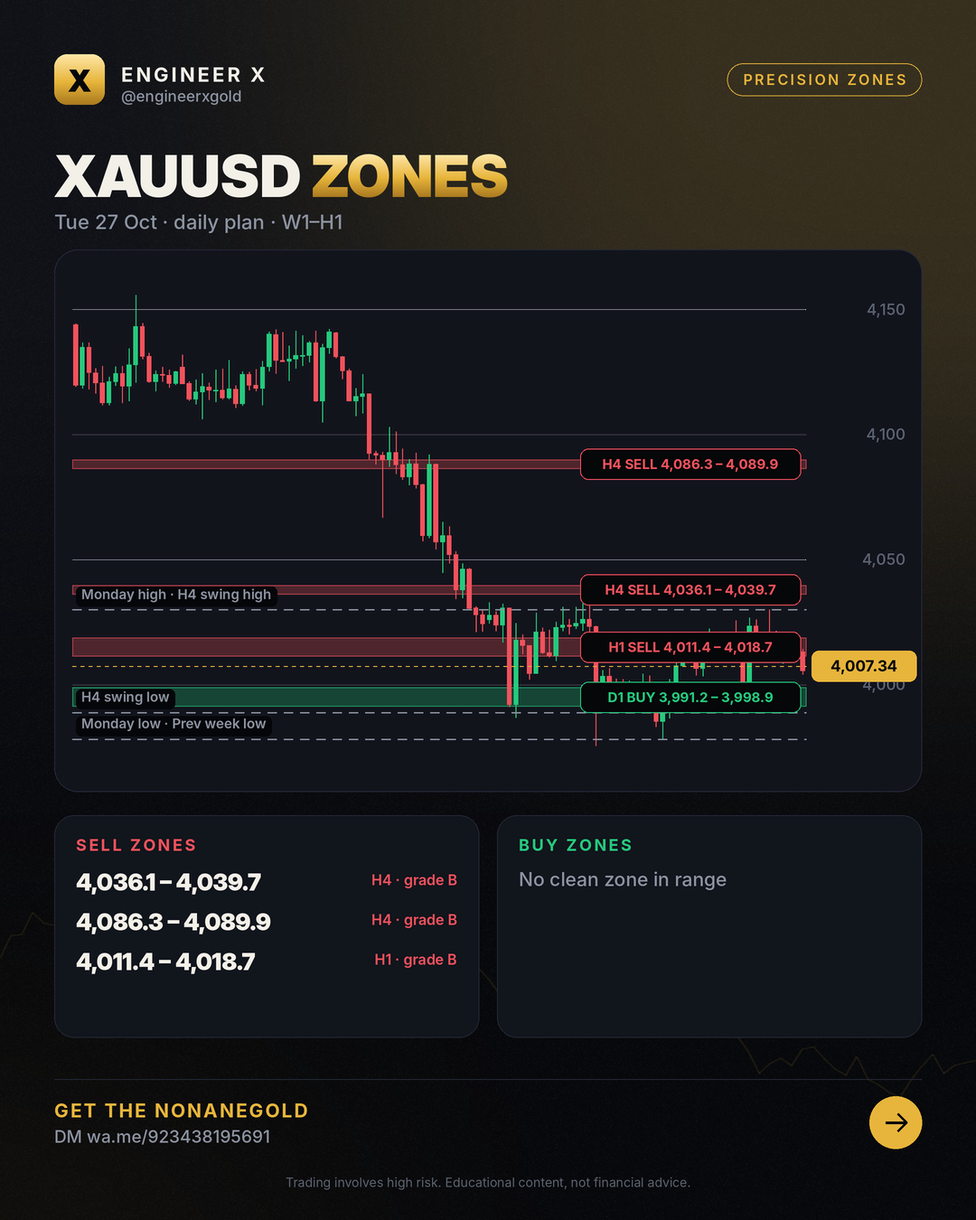
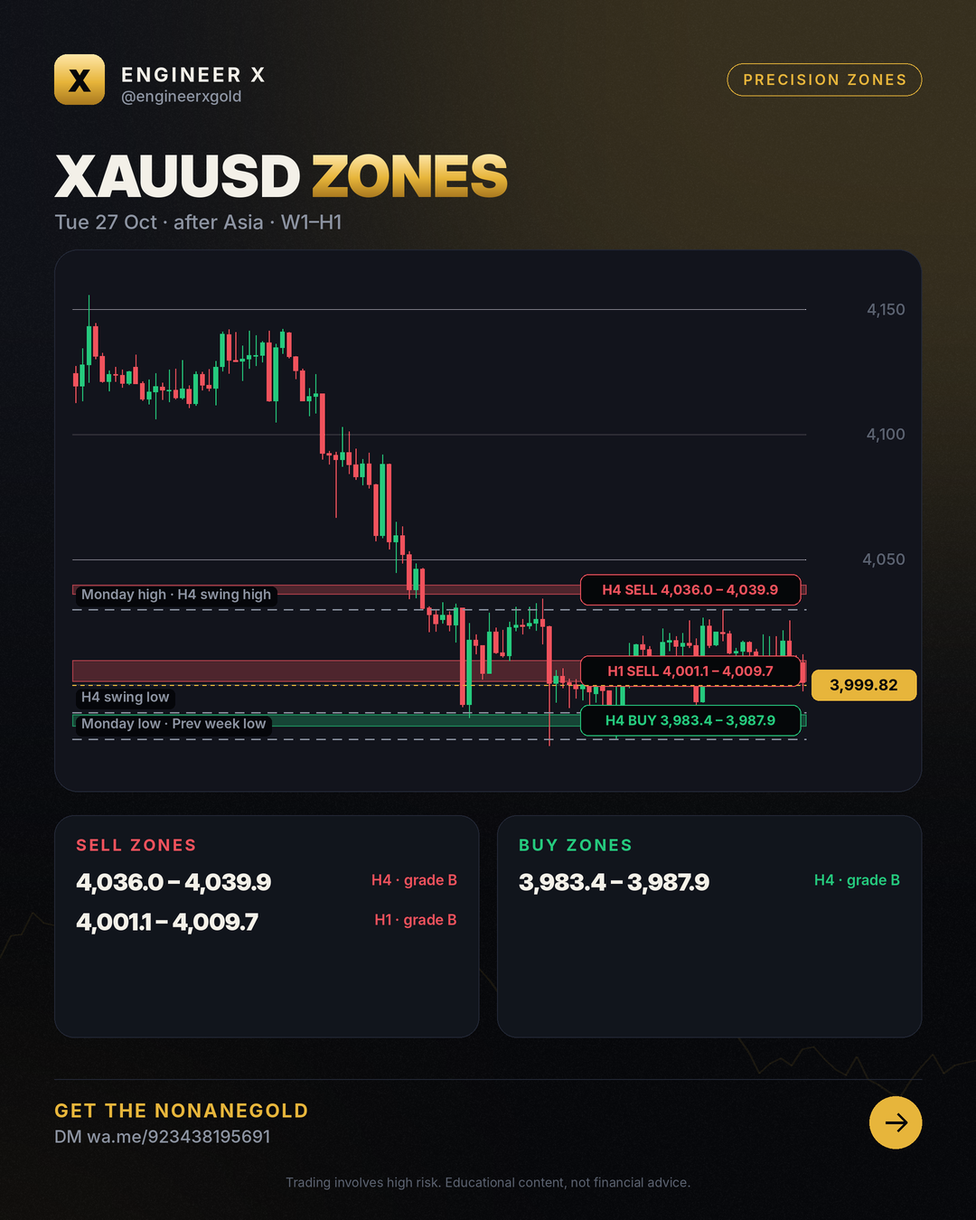
zones 2026-10-27 Tue 27 Oct · after Asia · W1–H1

diff --git a/zones/index.html b/zones/index.html
@@ -4,7 +4,7 @@
 <meta charset="utf-8">
 <meta name="viewport" content="width=device-width,initial-scale=1">
 <title>XAUUSD Zones Today – Buy &amp; Sell Zones (H4, H1) | Engineer X</title>
-<meta name="description" content="XAUUSD buy and sell zones for 2026-10-27: tested W1, D1, H4 and H1 zones with invalidation levels, updated after the Asian, London and New York sessions. Price 4,007.34.">
+<meta name="description" content="XAUUSD buy and sell zones for 2026-10-27: tested W1, D1, H4 and H1 zones with invalidation levels, updated after the Asian, London and New York sessions. Price 3,999.82.">
 <meta name="robots" content="index,follow,max-image-preview:large,max-snippet:-1,max-video-preview:-1">
 <meta name="author" content="Engr. M Ahmad Mehmood">
 <link rel="canonical" href="https://engineerxgold.github.io/zones/">
@@ -12,7 +12,7 @@
 <link rel="apple-touch-icon" href="../img/logo.png">
 <meta property="og:site_name" content="Engineer X">
 <meta property="og:title" content="XAUUSD Zones Today – Buy &amp; Sell Zones (H4, H1) | Engineer X">
-<meta property="og:description" content="XAUUSD buy and sell zones for 2026-10-27: tested W1, D1, H4 and H1 zones with invalidation levels, updated after the Asian, London and New York sessions. Price 4,007.34.">
+<meta property="og:description" content="XAUUSD buy and sell zones for 2026-10-27: tested W1, D1, H4 and H1 zones with invalidation levels, updated after the Asian, London and New York sessions. Price 3,999.82.">
 <meta property="og:type" content="website">
 <meta property="og:url" content="https://engineerxgold.github.io/zones/">
 <meta property="og:image" content="https://engineerxgold.github.io/zones/img/2026-10-27.png">
@@ -22,7 +22,7 @@
 <meta property="og:locale" content="en_US">
 <meta name="twitter:card" content="summary_large_image">
 <meta name="twitter:title" content="XAUUSD Zones Today – Buy &amp; Sell Zones (H4, H1) | Engineer X">
-<meta name="twitter:description" content="XAUUSD buy and sell zones for 2026-10-27: tested W1, D1, H4 and H1 zones with invalidation levels, updated after the Asian, London and New York sessions. Price 4,007.34.">
+<meta name="twitter:description" content="XAUUSD buy and sell zones for 2026-10-27: tested W1, D1, H4 and H1 zones with invalidation levels, updated after the Asian, London and New York sessions. Price 3,999.82.">
 <meta name="twitter:image" content="https://engineerxgold.github.io/zones/img/2026-10-27.png">
 <meta name="twitter:image:alt" content="XAUUSD Zones Today – Buy &amp; Sell Zones (H4, H1) | Engineer X">
 
@@ -101,7 +101,7 @@ footer .fl a{color:var(--muted);margin-right:16px}
 <div class="wrap">
 <nav><a class="logo" href="../"><b>X</b>Engineer X</a>
 <div class="links"><a href="../zones/">Daily Zones</a><a href="../blog/">Learn</a><a href="../ea/">Gold EA</a><a href="../about/">About</a><a class="cta" href="https://wa.me/923438195691">Get the EA</a></div></nav>
-<section class="hero"><span class="chip">Updated Tue 27 Oct · daily plan · W1–H1</span><h1>XAUUSD <span class="gold">precision zones</span></h1><p>XAUUSD buy and sell zones for 2026-10-27: tested W1, D1, H4 and H1 zones with invalidation levels, updated after the Asian, London and New York sessions. Price 4,007.34.</p></section><img src="img/2026-10-27.png" alt="Latest XAUUSD zone map" width="1080" height="1350"><section><h2>Current zones</h2><div style="overflow-x:auto"><table style="width:100%;border-collapse:collapse;font-size:15px"><tr><th align=left>Zone</th><th align=left>Price band</th><th>Grade</th><th align=left>Invalid</th><th align=left>Why</th></tr><tr><td>H4 sell</td><td><b>4,036.14 – 4,039.74</b></td><td>B</td><td>above 4,040.94</td><td>MSNR resistance level (fresh): 4H GAP 4037.94. Wrong if price trades above 4040.94.</td></tr><tr><td>H4 sell</td><td><b>4,086.34 – 4,089.94</b></td><td>B</td><td>above 4,091.14</td><td>MSNR resistance level (fresh): 4H A 4088.14. Wrong if price trades above 4091.14.</td></tr><tr><td>H1 sell</td><td><b>4,011.38 – 4,018.71</b></td><td>B</td><td>above 4,019.91</td><td>MSNR resistance levels (fresh): 1H GAP 4013.18, 1H A 4016.91, 30m GAP 4014.88, 30m A 4016.91, 15m GAP 4014.60, 15m GAP 4015.86. Wrong if price trades above 4019</td></tr><tr><td>D1 buy</td><td><b>3,991.20 – 3,998.88</b></td><td>B</td><td>below 3,990.00</td><td>MSNR support levels (fresh): D V 3997.08, 1H V 3993.00, 30m V 3993.00, 15m V 3993.00. Wrong if price trades below 3990.00.</td></tr></table></div></section><section><h2>Honest scorecard</h2><div class="grid"><div class="card"><div class="n">154</div><p>zones published (30 days)</p></div><div class="card"><div class="n">84</div><p>held (moved 1 hourly ATR away)</p></div><div class="card"><div class="n">7</div><p>broke (traded beyond the invalidation)</p></div><div class="card"><div class="n">92%</div><p>hold rate of decided zones</p></div></div></section><div class="ctabox"><h3>🤖 Trade the zones with the NonaneGold</h3><p>Free signals group access + setup help Message us and we will help you set it up.</p><div class="btns"><a class="btn gold" href="https://wa.me/923438195691">Get the EA on Telegram</a><a class="btn ghost" href="../ea/">About the EA</a></div></div><section><h2>Archive</h2><div class="grid posts"><a class="card" href="2026-10-27/"><span class="date">2026-10-27</span><h3>XAUUSD zones 2026-10-27</h3></a><a class="card" href="2026-10-26/"><span class="date">2026-10-26</span><h3>XAUUSD zones 2026-10-26</h3></a><a class="card" href="2026-10-23/"><span class="date">2026-10-23</span><h3>XAUUSD zones 2026-10-23</h3></a><a class="card" href="2026-10-22/"><span class="date">2026-10-22</span><h3>XAUUSD zones 2026-10-22</h3></a><a class="card" href="2026-10-21/"><span class="date">2026-10-21</span><h3>XAUUSD zones 2026-10-21</h3></a><a class="card" href="2026-10-20/"><span class="date">2026-10-20</span><h3>XAUUSD zones 2026-10-20</h3></a><a class="card" href="2026-10-19/"><span class="date">2026-10-19</span><h3>XAUUSD zones 2026-10-19</h3></a><a class="card" href="2026-10-16/"><span class="date">2026-10-16</span><h3>XAUUSD zones 2026-10-16</h3></a><a class="card" href="2026-10-15/"><span class="date">2026-10-15</span><h3>XAUUSD zones 2026-10-15</h3></a><a class="card" href="2026-10-14/"><span class="date">2026-10-14</span><h3>XAUUSD zones 2026-10-14</h3></a><a class="card" href="2026-10-13/"><span class="date">2026-10-13</span><h3>XAUUSD zones 2026-10-13</h3></a></div></section>
+<section class="hero"><span class="chip">Updated Tue 27 Oct · after Asia · W1–H1</span><h1>XAUUSD <span class="gold">precision zones</span></h1><p>XAUUSD buy and sell zones for 2026-10-27: tested W1, D1, H4 and H1 zones with invalidation levels, updated after the Asian, London and New York sessions. Price 3,999.82.</p></section><img src="img/2026-10-27.png" alt="Latest XAUUSD zone map" width="1080" height="1350"><section><h2>Current zones</h2><div style="overflow-x:auto"><table style="width:100%;border-collapse:collapse;font-size:15px"><tr><th align=left>Zone</th><th align=left>Price band</th><th>Grade</th><th align=left>Invalid</th><th align=left>Why</th></tr><tr><td>H4 sell</td><td><b>4,036.00 – 4,039.88</b></td><td>B</td><td>above 4,041.18</td><td>MSNR resistance level (fresh): 4H GAP 4037.94. Wrong if price trades above 4041.18.</td></tr><tr><td>H1 sell</td><td><b>4,001.13 – 4,009.65</b></td><td>B</td><td>above 4,010.95</td><td>MSNR resistance levels (fresh): 1H SBR 4005.55, 30m GAP 4003.07, 15m GAP 4003.07, 15m GAP 4007.71. Wrong if price trades above 4010.95.</td></tr><tr><td>H4 buy</td><td><b>3,983.40 – 3,987.95</b></td><td>B</td><td>below 3,982.10</td><td>MSNR support levels (fresh): 4H V 3985.34, 1H V 3985.34, 15m V 3986.01. Wrong if price trades below 3982.10.</td></tr></table></div></section><section><h2>Honest scorecard</h2><div class="grid"><div class="card"><div class="n">158</div><p>zones published (30 days)</p></div><div class="card"><div class="n">86</div><p>held (moved 1 hourly ATR away)</p></div><div class="card"><div class="n">8</div><p>broke (traded beyond the invalidation)</p></div><div class="card"><div class="n">91%</div><p>hold rate of decided zones</p></div></div></section><div class="ctabox"><h3>🤖 Trade the zones with the NonaneGold</h3><p>Free signals group access + setup help Message us and we will help you set it up.</p><div class="btns"><a class="btn gold" href="https://wa.me/923438195691">Get the EA on Telegram</a><a class="btn ghost" href="../ea/">About the EA</a></div></div><section><h2>Archive</h2><div class="grid posts"><a class="card" href="2026-10-27/"><span class="date">2026-10-27</span><h3>XAUUSD zones 2026-10-27</h3></a><a class="card" href="2026-10-26/"><span class="date">2026-10-26</span><h3>XAUUSD zones 2026-10-26</h3></a><a class="card" href="2026-10-23/"><span class="date">2026-10-23</span><h3>XAUUSD zones 2026-10-23</h3></a><a class="card" href="2026-10-22/"><span class="date">2026-10-22</span><h3>XAUUSD zones 2026-10-22</h3></a><a class="card" href="2026-10-21/"><span class="date">2026-10-21</span><h3>XAUUSD zones 2026-10-21</h3></a><a class="card" href="2026-10-20/"><span class="date">2026-10-20</span><h3>XAUUSD zones 2026-10-20</h3></a><a class="card" href="2026-10-19/"><span class="date">2026-10-19</span><h3>XAUUSD zones 2026-10-19</h3></a><a class="card" href="2026-10-16/"><span class="date">2026-10-16</span><h3>XAUUSD zones 2026-10-16</h3></a><a class="card" href="2026-10-15/"><span class="date">2026-10-15</span><h3>XAUUSD zones 2026-10-15</h3></a><a class="card" href="2026-10-14/"><span class="date">2026-10-14</span><h3>XAUUSD zones 2026-10-14</h3></a><a class="card" href="2026-10-13/"><span class="date">2026-10-13</span><h3>XAUUSD zones 2026-10-13</h3></a></div></section>
 <footer>
 <div class="warn"><b>Risk warning:</b> Trading gold, forex and CFDs carries a high risk of losing money and is not suitable for everyone. Past results do not guarantee future results. Everything on this site is educational and not financial advice. We are an introducing partner of our broker and may earn a commission on accounts opened through our link.</div>
 <p class="fl" style="margin-top:18px"><a href="../about/">About &amp; methodology</a><a href="../privacy.html">Privacy</a><a href="../terms.html">Terms &amp; risk disclosure</a><a href="../feed.xml">RSS</a><a href="https://t.me/engineerxgold">Telegram</a></p>

diff --git a/zones/2026-10-27/index.html b/zones/2026-10-27/index.html
@@ -4,7 +4,7 @@
 <meta charset="utf-8">
 <meta name="viewport" content="width=device-width,initial-scale=1">
 <title>Xauusd Analysis – 27 Oct 2026 (W1–H1)</title>
-<meta name="description" content="XAUUSD buy and sell zones for 2026-10-27: tested W1, D1, H4 and H1 zones with invalidation levels, updated after the Asian, London and New York sessions. Price 4,007.34.">
+<meta name="description" content="XAUUSD buy and sell zones for 2026-10-27: tested W1, D1, H4 and H1 zones with invalidation levels, updated after the Asian, London and New York sessions. Price 3,999.82.">
 <meta name="robots" content="index,follow,max-image-preview:large,max-snippet:-1,max-video-preview:-1">
 <meta name="author" content="Engr. M Ahmad Mehmood">
 <link rel="canonical" href="https://engineerxgold.github.io/zones/2026-10-27/">
@@ -12,7 +12,7 @@
 <link rel="apple-touch-icon" href="../../img/logo.png">
 <meta property="og:site_name" content="Engineer X">
 <meta property="og:title" content="Xauusd Analysis – 27 Oct 2026 (W1–H1)">
-<meta property="og:description" content="XAUUSD buy and sell zones for 2026-10-27: tested W1, D1, H4 and H1 zones with invalidation levels, updated after the Asian, London and New York sessions. Price 4,007.34.">
+<meta property="og:description" content="XAUUSD buy and sell zones for 2026-10-27: tested W1, D1, H4 and H1 zones with invalidation levels, updated after the Asian, London and New York sessions. Price 3,999.82.">
 <meta property="og:type" content="article">
 <meta property="og:url" content="https://engineerxgold.github.io/zones/2026-10-27/">
 <meta property="og:image" content="https://engineerxgold.github.io/zones/img/2026-10-27.png">
@@ -22,7 +22,7 @@
 <meta property="og:locale" content="en_US">
 <meta name="twitter:card" content="summary_large_image">
 <meta name="twitter:title" content="Xauusd Analysis – 27 Oct 2026 (W1–H1)">
-<meta name="twitter:description" content="XAUUSD buy and sell zones for 2026-10-27: tested W1, D1, H4 and H1 zones with invalidation levels, updated after the Asian, London and New York sessions. Price 4,007.34.">
+<meta name="twitter:description" content="XAUUSD buy and sell zones for 2026-10-27: tested W1, D1, H4 and H1 zones with invalidation levels, updated after the Asian, London and New York sessions. Price 3,999.82.">
 <meta name="twitter:image" content="https://engineerxgold.github.io/zones/img/2026-10-27.png">
 <meta name="twitter:image:alt" content="Xauusd Analysis – 27 Oct 2026 (W1–H1)">
 
@@ -32,7 +32,7 @@
 <link rel="preconnect" href="https://fonts.googleapis.com">
 <link rel="preconnect" href="https://fonts.gstatic.com" crossorigin>
 <link href="https://fonts.googleapis.com/css2?family=Inter:wght@400;500;600;800;900&display=swap" rel="stylesheet">
-<script type="application/ld+json">{"@context": "https://schema.org", "@type": "Organization", "@id": "https://engineerxgold.github.io/#organization", "name": "Engineer X", "url": "https://engineerxgold.github.io/", "logo": {"@type": "ImageObject", "url": "https://engineerxgold.github.io/img/logo.png", "width": 512, "height": 512}, "sameAs": ["https://t.me/engineerxgold"]}</script><script type="application/ld+json">{"@context": "https://schema.org", "@type": "Article", "headline": "Xauusd Analysis – 27 Oct 2026 (W1–H1)", "datePublished": "2026-10-27T08:00:00+05:00", "dateModified": "2026-10-27T05:03:52+05:00", "author": {"@type": "Person", "@id": "https://engineerxgold.github.io/about/#author", "name": "Engr. M Ahmad Mehmood", "url": "https://engineerxgold.github.io/about/", "jobTitle": "MQL5 Expert Advisor developer and gold market analyst", "worksFor": {"@id": "https://engineerxgold.github.io/#organization"}}, "publisher": {"@id": "https://engineerxgold.github.io/#organization"}, "image": "https://engineerxgold.github.io/zones/img/2026-10-27.png", "mainEntityOfPage": "https://engineerxgold.github.io/zones/2026-10-27/"}</script>
+<script type="application/ld+json">{"@context": "https://schema.org", "@type": "Organization", "@id": "https://engineerxgold.github.io/#organization", "name": "Engineer X", "url": "https://engineerxgold.github.io/", "logo": {"@type": "ImageObject", "url": "https://engineerxgold.github.io/img/logo.png", "width": 512, "height": 512}, "sameAs": ["https://t.me/engineerxgold"]}</script><script type="application/ld+json">{"@context": "https://schema.org", "@type": "Article", "headline": "Xauusd Analysis – 27 Oct 2026 (W1–H1)", "datePublished": "2026-10-27T08:00:00+05:00", "dateModified": "2026-10-27T12:06:19+05:00", "author": {"@type": "Person", "@id": "https://engineerxgold.github.io/about/#author", "name": "Engr. M Ahmad Mehmood", "url": "https://engineerxgold.github.io/about/", "jobTitle": "MQL5 Expert Advisor developer and gold market analyst", "worksFor": {"@id": "https://engineerxgold.github.io/#organization"}}, "publisher": {"@id": "https://engineerxgold.github.io/#organization"}, "image": "https://engineerxgold.github.io/zones/img/2026-10-27.png", "mainEntityOfPage": "https://engineerxgold.github.io/zones/2026-10-27/"}</script>
 
 <style>
 :root{--gold:#E7B53B;--gold-hi:#FFE7A8;--bg:#07080B;--bg2:#0E1016;--panel:#12151D;--line:#232836;--green:#25C97D;--red:#F0525C;--text:#F3F0E8;--muted:#8C93A1}
@@ -101,7 +101,7 @@ footer .fl a{color:var(--muted);margin-right:16px}
 <div class="wrap">
 <nav><a class="logo" href="../../"><b>X</b>Engineer X</a>
 <div class="links"><a href="../../zones/">Daily Zones</a><a href="../../blog/">Learn</a><a href="../../ea/">Gold EA</a><a href="../../about/">About</a><a class="cta" href="https://wa.me/923438195691">Get the EA</a></div></nav>
-<article><p class="crumbs"><a href="../../">Home</a> › <a href="../">Zones</a> › 2026-10-27</p><h1>Xauusd Analysis – 27 Oct 2026 (W1–H1)</h1><p class="byline">Tue 27 Oct · daily plan · W1–H1 · by Engr. M Ahmad Mehmood</p><img src="../img/2026-10-27.png" alt="XAUUSD zone map 2026-10-27" width="1080" height="1350" loading="eager"><h2>Zones</h2><div style="overflow-x:auto"><table style="width:100%;border-collapse:collapse;font-size:15px"><tr><th align=left>Zone</th><th align=left>Price band</th><th>Grade</th><th align=left>Invalid</th><th align=left>Why</th></tr><tr><td>H4 sell</td><td><b>4,036.14 – 4,039.74</b></td><td>B</td><td>above 4,040.94</td><td>MSNR resistance level (fresh): 4H GAP 4037.94. Wrong if price trades above 4040.94.</td></tr><tr><td>H4 sell</td><td><b>4,086.34 – 4,089.94</b></td><td>B</td><td>above 4,091.14</td><td>MSNR resistance level (fresh): 4H A 4088.14. Wrong if price trades above 4091.14.</td></tr><tr><td>H1 sell</td><td><b>4,011.38 – 4,018.71</b></td><td>B</td><td>above 4,019.91</td><td>MSNR resistance levels (fresh): 1H GAP 4013.18, 1H A 4016.91, 30m GAP 4014.88, 30m A 4016.91, 15m GAP 4014.60, 15m GAP 4015.86. Wrong if price trades above 4019</td></tr><tr><td>D1 buy</td><td><b>3,991.20 – 3,998.88</b></td><td>B</td><td>below 3,990.00</td><td>MSNR support levels (fresh): D V 3997.08, 1H V 3993.00, 30m V 3993.00, 15m V 3993.00. Wrong if price trades below 3990.00.</td></tr></table></div><h2>How to read this map</h2><p>Bands are where price is expected to react; they are not entries. Trading beyond the invalidation price ends the zone; each zone counts once (first touch). Highs and lows listed as liquidity are targets: on 10 years of gold price ran through them more often than through random levels.</p><div class="ctabox"><h3>🤖 Trade the zones with the NonaneGold</h3><p>Free signals group access + setup help Message us and we will help you set it up.</p><div class="btns"><a class="btn gold" href="https://wa.me/923438195691">Get the EA on Telegram</a><a class="btn ghost" href="../../ea/">About the EA</a></div></div></article>
+<article><p class="crumbs"><a href="../../">Home</a> › <a href="../">Zones</a> › 2026-10-27</p><h1>Xauusd Analysis – 27 Oct 2026 (W1–H1)</h1><p class="byline">Tue 27 Oct · after Asia · W1–H1 · by Engr. M Ahmad Mehmood</p><img src="../img/2026-10-27.png" alt="XAUUSD zone map 2026-10-27" width="1080" height="1350" loading="eager"><h2>Zones</h2><div style="overflow-x:auto"><table style="width:100%;border-collapse:collapse;font-size:15px"><tr><th align=left>Zone</th><th align=left>Price band</th><th>Grade</th><th align=left>Invalid</th><th align=left>Why</th></tr><tr><td>H4 sell</td><td><b>4,036.00 – 4,039.88</b></td><td>B</td><td>above 4,041.18</td><td>MSNR resistance level (fresh): 4H GAP 4037.94. Wrong if price trades above 4041.18.</td></tr><tr><td>H1 sell</td><td><b>4,001.13 – 4,009.65</b></td><td>B</td><td>above 4,010.95</td><td>MSNR resistance levels (fresh): 1H SBR 4005.55, 30m GAP 4003.07, 15m GAP 4003.07, 15m GAP 4007.71. Wrong if price trades above 4010.95.</td></tr><tr><td>H4 buy</td><td><b>3,983.40 – 3,987.95</b></td><td>B</td><td>below 3,982.10</td><td>MSNR support levels (fresh): 4H V 3985.34, 1H V 3985.34, 15m V 3986.01. Wrong if price trades below 3982.10.</td></tr></table></div><h2>How to read this map</h2><p>Bands are where price is expected to react; they are not entries. Trading beyond the invalidation price ends the zone; each zone counts once (first touch). Highs and lows listed as liquidity are targets: on 10 years of gold price ran through them more often than through random levels.</p><div class="ctabox"><h3>🤖 Trade the zones with the NonaneGold</h3><p>Free signals group access + setup help Message us and we will help you set it up.</p><div class="btns"><a class="btn gold" href="https://wa.me/923438195691">Get the EA on Telegram</a><a class="btn ghost" href="../../ea/">About the EA</a></div></div></article>
 <footer>
 <div class="warn"><b>Risk warning:</b> Trading gold, forex and CFDs carries a high risk of losing money and is not suitable for everyone. Past results do not guarantee future results. Everything on this site is educational and not financial advice. We are an introducing partner of our broker and may earn a commission on accounts opened through our link.</div>
 <p class="fl" style="margin-top:18px"><a href="../../about/">About &amp; methodology</a><a href="../../privacy.html">Privacy</a><a href="../../terms.html">Terms &amp; risk disclosure</a><a href="../../feed.xml">RSS</a><a href="https://t.me/engineerxgold">Telegram</a></p>

diff --git a/index.html b/index.html
@@ -101,7 +101,7 @@ footer .fl a{color:var(--muted);margin-right:16px}
 <div class="wrap">
 <nav><a class="logo" href="./"><b>X</b>Engineer X</a>
 <div class="links"><a href="./zones/">Daily Zones</a><a href="./blog/">Learn</a><a href="./ea/">Gold EA</a><a href="./about/">About</a><a class="cta" href="https://wa.me/923438195691">Get the EA</a></div></nav>
-<section class="hero"><span class="chip">XAUUSD · W1–H1 · every session</span><h1>Gold <span class="gold">precision zones</span>, updated after every session</h1><p>Tested buy and sell zones with clear invalidation, a scorecard of every result, and the NonaneGold for traders who want it automated.</p><div class="btns"><a class="btn gold" href="zones/">See today's zones</a><a class="btn ghost" href="https://wa.me/923438195691">Get the EA</a></div></section><section><h2>Latest map Tue 27 Oct · daily plan · W1–H1</h2><img src="zones/img/2026-10-27.png" alt="Latest XAUUSD zones" width="1080" height="1350"></section><div class="ctabox"><h3>🤖 Trade the zones with the NonaneGold</h3><p>Free signals group access + setup help Message us and we will help you set it up.</p><div class="btns"><a class="btn gold" href="https://wa.me/923438195691">Get the EA on Telegram</a><a class="btn ghost" href="ea/">About the EA</a></div></div><section><h2>Learn</h2><div class="grid posts"><a class="card" href="blog/xauusd-analysis-key-gold-trading-zones-liquidity/"><span class="date">2026-10-27</span><h3>XAUUSD Analysis: Key Gold Trading Zones &amp; Liquidity</h3></a><a class="card" href="blog/gold-supply-and-demand-zones-for-xauusd-traders/"><span class="date">2026-10-26</span><h3>Gold supply and demand zones for XAUUSD traders</h3></a><a class="card" href="blog/xauusd-price-navigating-key-zones-and-liquidity/"><span class="date">2026-10-24</span><h3>xauusd price: Navigating Key Zones and Liquidity</h3></a><a class="card" href="blog/gold-supply-and-demand-zones-h4-trend-map/"><span class="date">2026-10-23</span><h3>Gold Supply and Demand Zones: H4 Trend Map</h3></a><a class="card" href="blog/gold-forecast-critical-h4-bearish-zones-liquidity/"><span class="date">2026-10-21</span><h3>Gold Forecast: Critical H4 Bearish Zones &amp; Liquidity</h3></a><a class="card" href="blog/gold-supply-and-demand-zones-h4-w1-map-analysis/"><span class="date">2026-10-20</span><h3>Gold Supply and Demand Zones: H4 &amp; W1 Map Analysis</h3></a></div></section><section><h2>FAQ</h2><details><summary>What is a precision zone?</summary><p>A point of interest from a trading book (OTE 0.705, balanced price range, weekly close level, daily order block) that held better than random levels on 10 years of gold. Each zone has an invalidation price.</p></details><details><summary>How often are the zones updated?</summary><p>A daily plan at the Asian open, then after the Asian, London and New York sessions.</p></details><details><summary>Are these trade signals?</summary><p>No. Zones are areas to watch. Wait for your own confirmation and manage risk.</p></details><details><summary>How do I get the Gold EA?</summary><p>Message us on Telegram or WhatsApp; we answer and help with the setup.</p></details></section>
+<section class="hero"><span class="chip">XAUUSD · W1–H1 · every session</span><h1>Gold <span class="gold">precision zones</span>, updated after every session</h1><p>Tested buy and sell zones with clear invalidation, a scorecard of every result, and the NonaneGold for traders who want it automated.</p><div class="btns"><a class="btn gold" href="zones/">See today's zones</a><a class="btn ghost" href="https://wa.me/923438195691">Get the EA</a></div></section><section><h2>Latest map Tue 27 Oct · after Asia · W1–H1</h2><img src="zones/img/2026-10-27.png" alt="Latest XAUUSD zones" width="1080" height="1350"></section><div class="ctabox"><h3>🤖 Trade the zones with the NonaneGold</h3><p>Free signals group access + setup help Message us and we will help you set it up.</p><div class="btns"><a class="btn gold" href="https://wa.me/923438195691">Get the EA on Telegram</a><a class="btn ghost" href="ea/">About the EA</a></div></div><section><h2>Learn</h2><div class="grid posts"><a class="card" href="blog/xauusd-analysis-key-gold-trading-zones-liquidity/"><span class="date">2026-10-27</span><h3>XAUUSD Analysis: Key Gold Trading Zones &amp; Liquidity</h3></a><a class="card" href="blog/gold-supply-and-demand-zones-for-xauusd-traders/"><span class="date">2026-10-26</span><h3>Gold supply and demand zones for XAUUSD traders</h3></a><a class="card" href="blog/xauusd-price-navigating-key-zones-and-liquidity/"><span class="date">2026-10-24</span><h3>xauusd price: Navigating Key Zones and Liquidity</h3></a><a class="card" href="blog/gold-supply-and-demand-zones-h4-trend-map/"><span class="date">2026-10-23</span><h3>Gold Supply and Demand Zones: H4 Trend Map</h3></a><a class="card" href="blog/gold-forecast-critical-h4-bearish-zones-liquidity/"><span class="date">2026-10-21</span><h3>Gold Forecast: Critical H4 Bearish Zones &amp; Liquidity</h3></a><a class="card" href="blog/gold-supply-and-demand-zones-h4-w1-map-analysis/"><span class="date">2026-10-20</span><h3>Gold Supply and Demand Zones: H4 &amp; W1 Map Analysis</h3></a></div></section><section><h2>FAQ</h2><details><summary>What is a precision zone?</summary><p>A point of interest from a trading book (OTE 0.705, balanced price range, weekly close level, daily order block) that held better than random levels on 10 years of gold. Each zone has an invalidation price.</p></details><details><summary>How often are the zones updated?</summary><p>A daily plan at the Asian open, then after the Asian, London and New York sessions.</p></details><details><summary>Are these trade signals?</summary><p>No. Zones are areas to watch. Wait for your own confirmation and manage risk.</p></details><details><summary>How do I get the Gold EA?</summary><p>Message us on Telegram or WhatsApp; we answer and help with the setup.</p></details></section>
 <footer>
 <div class="warn"><b>Risk warning:</b> Trading gold, forex and CFDs carries a high risk of losing money and is not suitable for everyone. Past results do not guarantee future results. Everything on this site is educational and not financial advice. We are an introducing partner of our broker and may earn a commission on accounts opened through our link.</div>
 <p class="fl" style="margin-top:18px"><a href="./about/">About &amp; methodology</a><a href="./privacy.html">Privacy</a><a href="./terms.html">Terms &amp; risk disclosure</a><a href="./feed.xml">RSS</a><a href="https://t.me/engineerxgold">Telegram</a></p>
